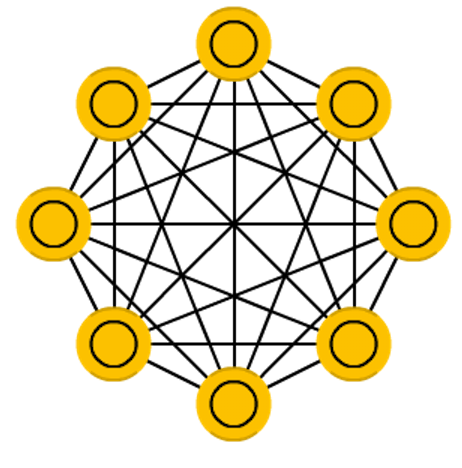
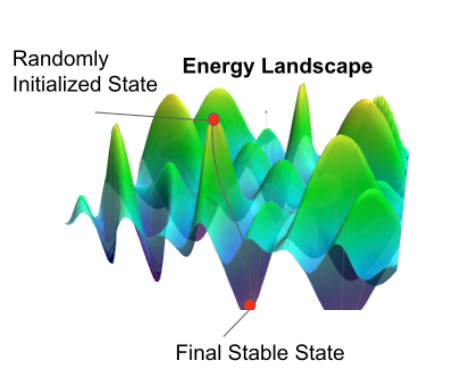
Thumbnail changes

diff --git a/index.html b/index.html
@@ -163,7 +163,7 @@
           <div class="article-content">
             <time datetime="2026-09-29">25 February 2026</time>
             <h3><a href="articles/cardiac.html">A non-linear model for cardiomechanics: PDEs in C++ DEAL.II </a></h3>
-            <p></p>
+            <p>A finite element model of the left ventricle that explores how myocardial fiber orientation, active contraction, and internal pressure interact to produce cardiac deformation and twist.</p>
             <a class="read-link" href="articles/cardiac.html">Read article &gt;</a>
           </div>
         </article>
@@ -177,7 +177,8 @@
           <div class="article-content">
             <time datetime="2026-09-29">25 January 2026</time>
             <h3><a href="articles/hopfield.html">Hopfield Networks: an early model for reconstruction and associative memory</a></h3>
-            <p>How we tackled UHK's Multimodal Action Recognition competition with synthetic generations f</p>
+            <p>In 1930, Hopfield published his historical paper "Neural networks and physical systems with emergent collective computational abilities" in which he showed how we can build associative, distributed memories
+              through a self-organizing process. In this article, we study our own implementation of C++ his networks, and study its dynamics.</p>
             <a class="read-link" href="articles/hopfield.html">Read article &gt;</a>
           </div>
         </article>
@@ -191,7 +192,7 @@
           <div class="article-content">
             <time datetime="2026-09-29">3 November 2024</time>
             <h3><a href="articles/itacpc.html">ITACP Competition 2024 | Our @PoliMI team </a></h3>
-            <p>How we tackled UHK's Multimodal Action Recognition competition with synthetic generations f</p>
+            <p>Our experience with the Italian Collegiate Programming Competition and a presentation of our @Politecnico di Milano team!</p>
             <a class="read-link" href="articles/itacpc.html">Read article &gt;</a>
           </div>
         </article>
@@ -205,7 +206,7 @@
           <div class="article-content">
             <time datetime="2026-09-29">18 August 2026</time>
             <h3><a href="articles/boltzmann.html">The early generative model of deep Boltzmann Machines</a></h3>
-            <p>How we tackled UHK's Multimodal Action Recognition competition with synthetic generations f</p>
+            <p>Restricted Boltzmann machines, heavily popularized by Geoffrey Hinton, were an early models of distribution modelling inspired by the spin-glass model of statistical physics. </p>
             <a class="read-link" href="articles/boltzmann.html">Read article &gt;</a>
           </div>
         </article>
@@ -220,7 +221,7 @@
           <div class="article-content">
             <time datetime="2026-09-29">18 August 2026</time>
             <h3><a href="articles/riverflow_1.html">A dataflow language for deep weather forecasting: Riverflow | Formatting </a></h3>
-            <p>How we tackled UHK's Multimodal Action Recognition competition with synthetic generations f</p>
+            <p>A small domain-specific language for turning messy hydrological and weather data into clean datasets, with explicit rules for parsing, typing, preprocessing, normalization, and reproducible data preparation.</p>
             <a class="read-link" href="articles/riverflow_1.html">Read article &gt;</a>
           </div>
         </article>
@@ -234,7 +235,7 @@
           <div class="article-content">
             <time datetime="2026-09-29">18 August 2026</time>
             <h3><a href="articles/riverflow_2.html">A dataflow language for deep weather forecasting: Riverflow | Training and preprocessing </a></h3>
-            <p>How we tackled UHK's Multimodal Action Recognition competition with synthetic generations f</p>
+            <p>A look at how RiverFlow aligns heterogeneous time series, builds sliding input-target windows, and creates reproducible training and test datasets for forecasting river levels from weather and recent history.</p>
             <a class="read-link" href="articles/riverflow_2.html">Read article &gt;</a>
           </div>
         </article>
@@ -247,7 +248,7 @@
           <div class="article-content">
             <time datetime="2026-09-29">18 August 2026</time>
             <h3><a href="articles/autodiff.html">A C++ Graph-based autodiff engine for neural networks </a></h3>
-            <p>How we tackled UHK's Multimodal Action Recognition competition with synthetic generations f</p>
+            <p>A C++ implementation of graph-based automatic differentiation for neural networks, exploring computational graphs, forward evaluation, reverse-mode gradient propagation, and the mechanics behind backpropagation.</p>
             <a class="read-link" href="articles/autodiff.html">Read article &gt;</a>
           </div>
         </article>
@@ -259,7 +260,7 @@
           <div class="article-content">
             <time datetime="2026-09-29">18 August 2026</time>
             <h3><a href="articles/reservoir.html">Reservoir Computing, or how to create deep temporal unsupervised embeddings</a></h3>
-            <p>How we tackled UHK's Multimodal Action Recognition competition with synthetic generations f</p>
+            <p>An exploration of reservoir computing in C++, showing how a fixed random recurrent network can encode temporal history and complex dynamics while only a simple readout needs to be trained.</p>
             <a class="read-link" href="articles/reservoir.html">Read article &gt;</a>
           </div>
         </article>
@@ -271,7 +272,7 @@
           <div class="article-content">
             <time datetime="2026-09-29">18 August 2026</time>
             <h3><a href="articles/konohen.html">Self-organizing Konohen Mappings for clustering and classification</a></h3>
-            <p>How we tackled UHK's Multimodal Action Recognition competition with synthetic generations f</p>
+            <p>A C++ implementation of Kohonen self-organising maps, exploring competitive learning and neighbourhood updates to project high-dimensional data onto a topology-preserving two-dimensional representation.</p>
             <a class="read-link" href="articles/konohen.html">Read article &gt;</a>
           </div>
         </article>
@@ -284,7 +285,7 @@
           <div class="article-content">
             <time datetime="2026-09-29">18 August 2026</time>
             <h3><a href="articles/speedclimbing.html">Perspective-n-Point: tracking athletes over speedclimbing boards from unstructured footage</a></h3>
-            <p>How we tackled UHK's Multimodal Action Recognition competition with synthetic generations f</p>
+            <p>A computer vision pipeline for recovering a speed climber’s position and vertical velocity from uncalibrated video using hold detection, pose estimation, wall geometry, homographies, and temporal filtering.</p>
             <a class="read-link" href="articles/speedclimbing.html">Read article &gt;</a>
           </div>
         </article>
@@ -297,7 +298,7 @@
           <div class="article-content">
             <time datetime="2026-09-29">18 August 2026</time>
             <h3><a href="articles/violajones.html">Viola-Jones | How we used to detect faces before deep learning </a></h3>
-            <p>How we tackled UHK's Multimodal Action Recognition competition with synthetic generations f</p>
+            <p>An exploration of the Viola–Jones face detector, combining Haar-like features, integral images, AdaBoost, and cascaded classifiers to understand how efficient face detection worked before deep learning.</p>
             <a class="read-link" href="articles/violajones.html">Read article &gt;</a>
           </div>
         </article>
@@ -310,7 +311,7 @@
           <div class="article-content">
             <time datetime="2026-09-29">18 August 2026</time>
             <h3><a href="articles/fourier.html">A C++ guide to object-oriented Fourier transform</a></h3>
-            <p>How we tackled UHK's Multimodal Action Recognition competition with synthetic generations f</p>
+            <p>An object-oriented implementation of the Fourier transform in C++, exploring sampling, windowing, the DFT and FFT, spectral resolution, leakage, and the practical details behind frequency analysis.</p>
             <a class="read-link" href="articles/fourier.html">Read article &gt;</a>
           </div>
         </article>
@@ -322,7 +323,7 @@
           <div class="article-content">
             <time datetime="2026-09-29">18 August 2026</time>
             <h3><a href="articles/nlpfooter.html">Recognizing footers in emails with regexes and lightweight NLP models</a></h3>
-            <p>How we tackled UHK's Multimodal Action Recognition competition with synthetic generations f</p>
+            <p>A lightweight approach to detecting email footers line by line, combining regex-based structural features with a small recurrent neural network to distinguish signatures from ordinary message content.</p>
             <a class="read-link" href="articles/nlpfooter.html">Read article &gt;</a>
           </div>
         </article>
